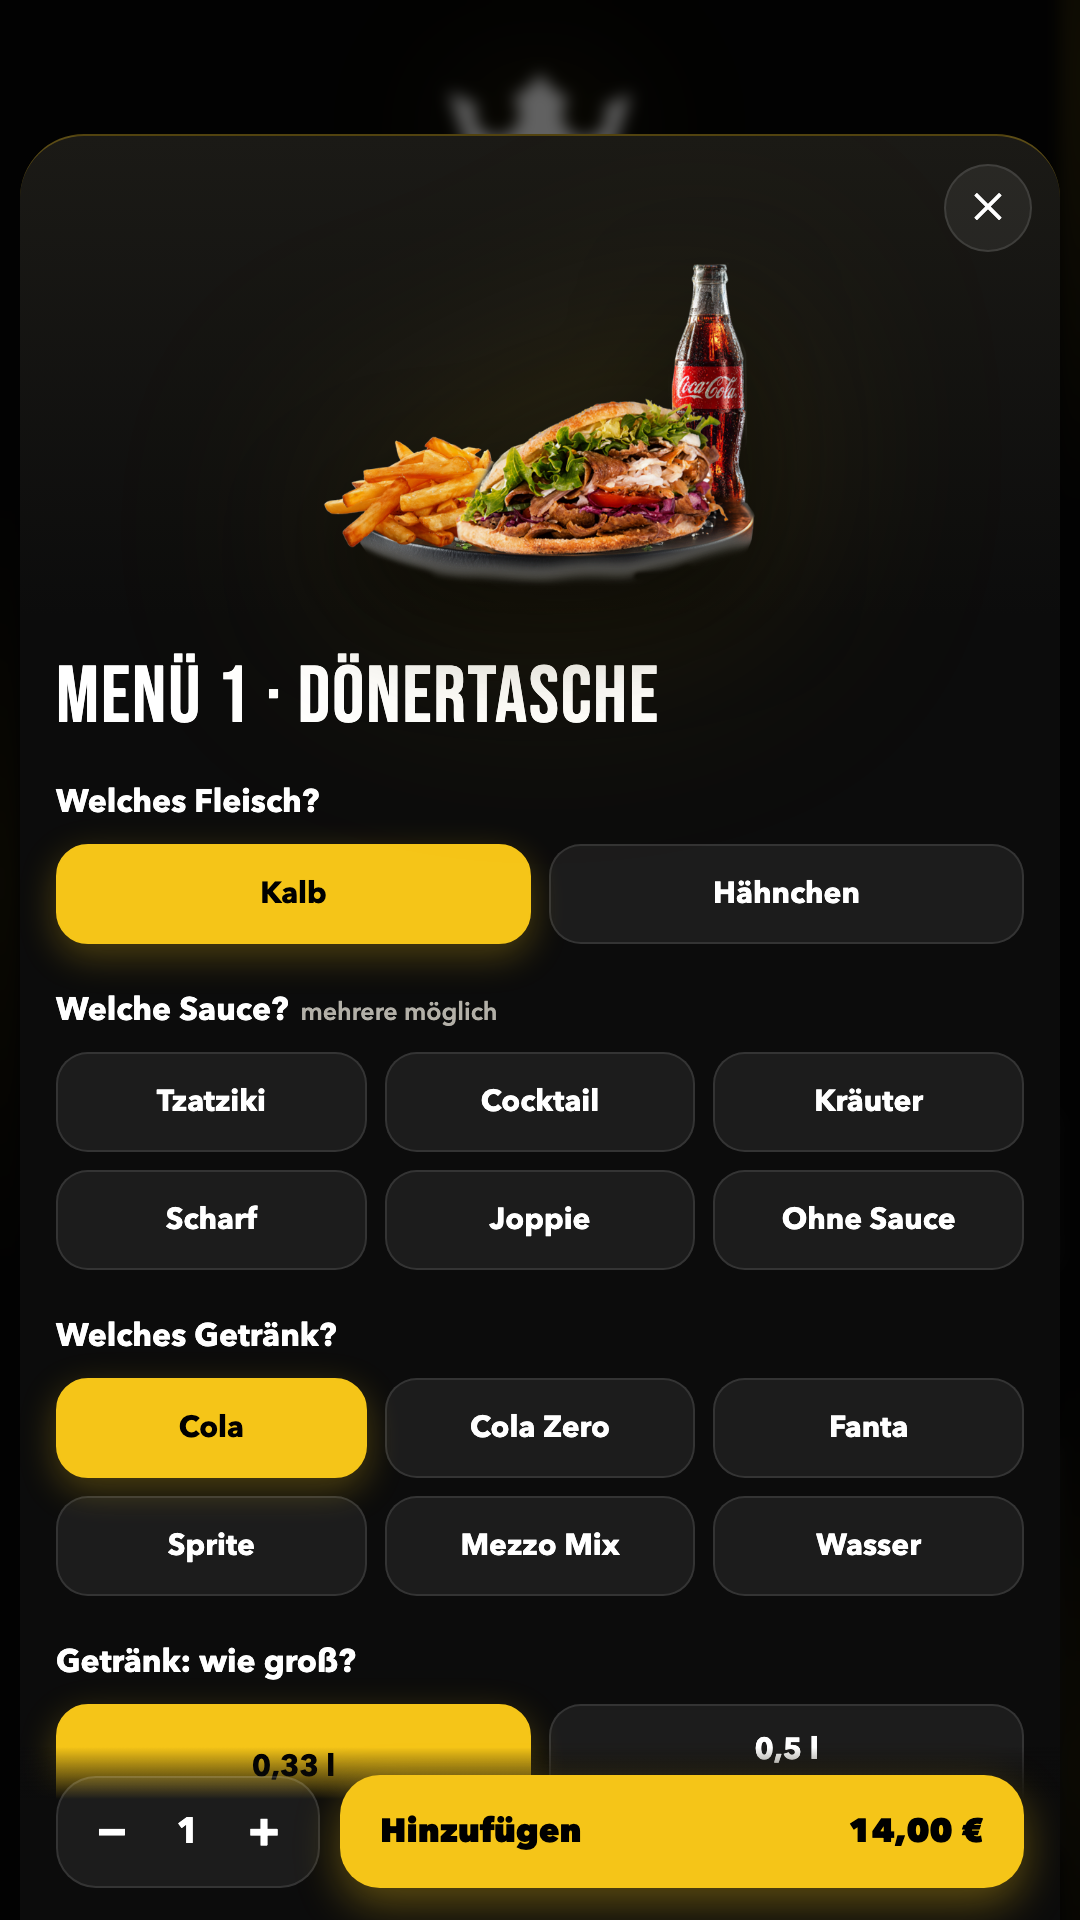
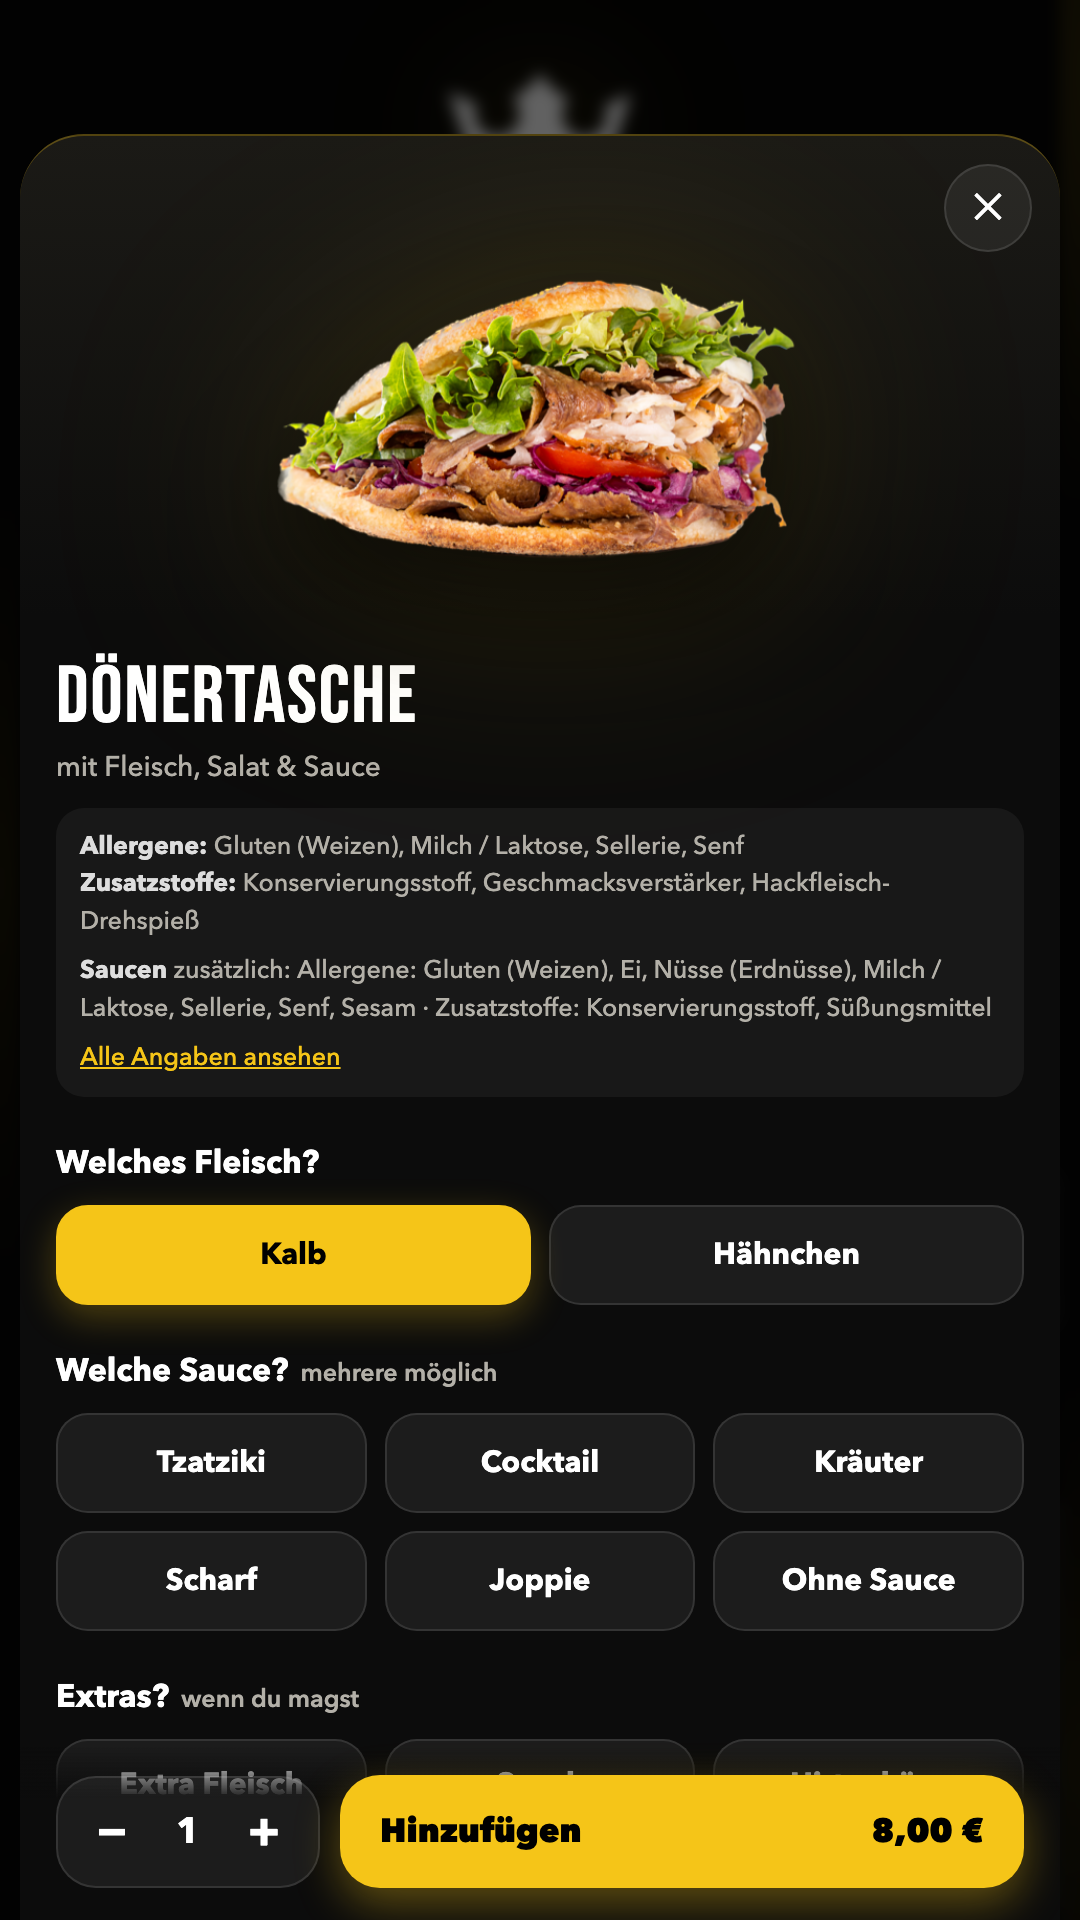
App-Bildschirmfotos aktualisiert

diff --git a/sw.js b/sw.js
@@ -1,6 +1,6 @@
 // Königs Grill 2 Münster – macht die App installierbar und offline nutzbar.
 // Strategie: immer zuerst das Netz (damit Preise aktuell sind), sonst die gespeicherte Kopie.
-const SPEICHER = 'kg2-v12';
+const SPEICHER = 'kg2-v13';
 self.addEventListener('install', e => { self.skipWaiting(); e.waitUntil(caches.open(SPEICHER).then(c => c.addAll(['./', 'manifest.webmanifest', 'img/krone.svg', 'img/icon-192.png', 'fonts/fonts.css', 'fonts/bebasneue-latin.woff2', 'fonts/montserrat-latin.woff2']))); });
 self.addEventListener('activate', e => e.waitUntil(caches.keys().then(ks => Promise.all(ks.filter(k => k !== SPEICHER).map(k => caches.delete(k)))).then(() => self.clients.claim())));
 self.addEventListener('fetch', e => {
